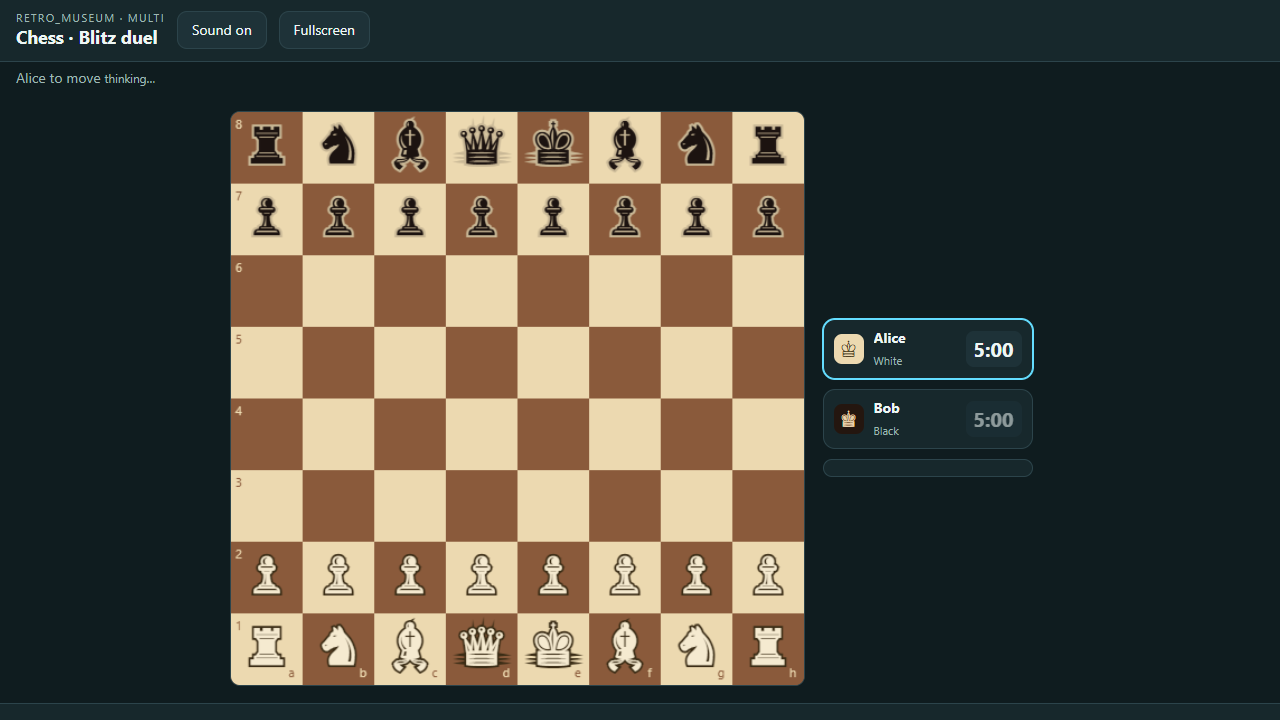
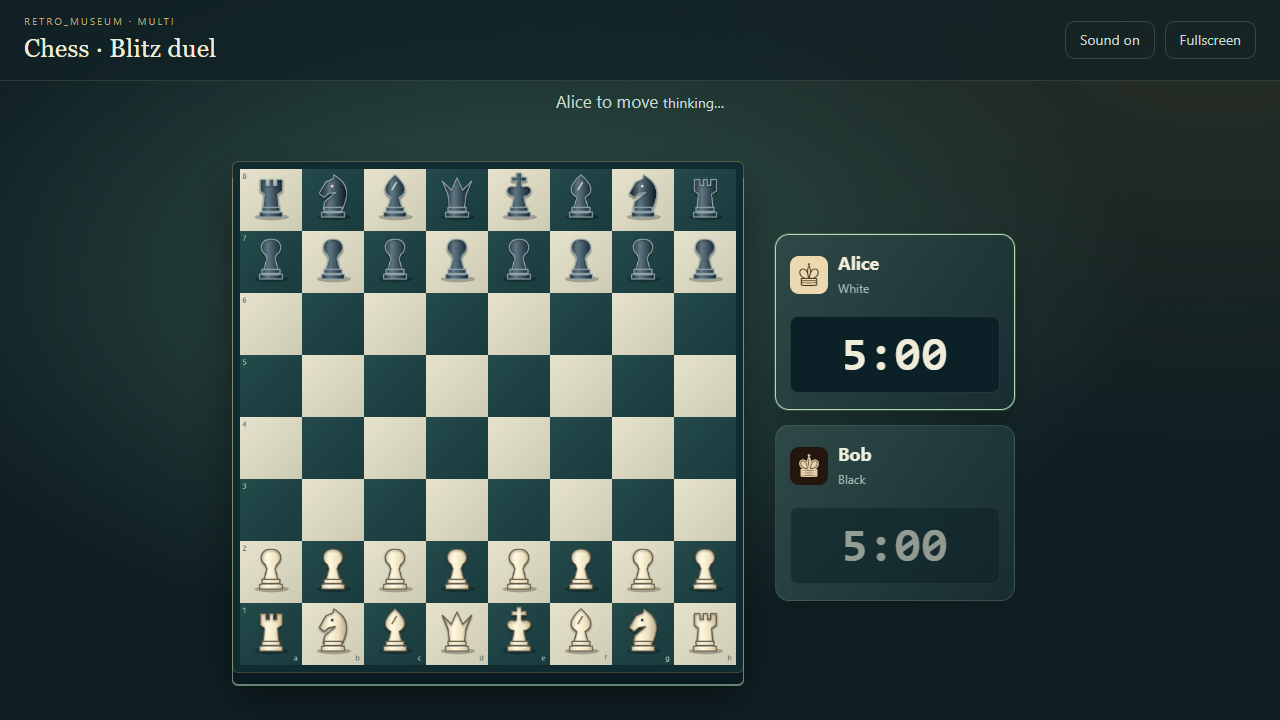
feat: emerald chess board with vector pieces and move animations

diff --git a/public/chess-ui.js b/public/chess-ui.js
@@ -1,6 +1,8 @@
+const VICTORY = "<svg class=\"victory-mark\" viewBox=\"0 0 80 80\" aria-hidden=\"true\"><path d=\"M24 14h32v19c0 14-8 20-16 20s-16-6-16-20z\" fill=\"currentColor\"/><path d=\"M24 20H13v10c0 10 8 14 16 14M56 20h11v10c0 10-8 14-16 14\" fill=\"none\" stroke=\"currentColor\" stroke-width=\"5\"/><path d=\"M36 51h8v12h12v6H24v-6h12z\" fill=\"currentColor\"/><path d=\"m40 22 3 6 7 1-5 5 1 7-6-3-6 3 1-7-5-5 7-1z\" fill=\"#825521\"/></svg><div class=\"celebration\" aria-hidden=\"true\"><i style=\"--x:0%;--delay:0s;--spin:-180deg;--color:#eacb7e\"></i><i style=\"--x:47%;--delay:0.12s;--spin:180deg;--color:#8dd9c0\"></i><i style=\"--x:94%;--delay:0.24s;--spin:-180deg;--color:#e68fab\"></i><i style=\"--x:41%;--delay:0.36s;--spin:180deg;--color:#c4bcff\"></i><i style=\"--x:88%;--delay:0.48s;--spin:-180deg;--color:#eacb7e\"></i><i style=\"--x:35%;--delay:0s;--spin:180deg;--color:#8dd9c0\"></i><i style=\"--x:82%;--delay:0.12s;--spin:-180deg;--color:#e68fab\"></i><i style=\"--x:29%;--delay:0.24s;--spin:180deg;--color:#c4bcff\"></i><i style=\"--x:76%;--delay:0.36s;--spin:-180deg;--color:#eacb7e\"></i><i style=\"--x:23%;--delay:0.48s;--spin:180deg;--color:#8dd9c0\"></i><i style=\"--x:70%;--delay:0s;--spin:-180deg;--color:#e68fab\"></i><i style=\"--x:17%;--delay:0.12s;--spin:180deg;--color:#c4bcff\"></i><i style=\"--x:64%;--delay:0.24s;--spin:-180deg;--color:#eacb7e\"></i><i style=\"--x:11%;--delay:0.36s;--spin:180deg;--color:#8dd9c0\"></i><i style=\"--x:58%;--delay:0.48s;--spin:-180deg;--color:#e68fab\"></i><i style=\"--x:5%;--delay:0s;--spin:180deg;--color:#c4bcff\"></i><i style=\"--x:52%;--delay:0.12s;--spin:-180deg;--color:#eacb7e\"></i><i style=\"--x:99%;--delay:0.24s;--spin:180deg;--color:#8dd9c0\"></i><i style=\"--x:46%;--delay:0.36s;--spin:-180deg;--color:#e68fab\"></i><i style=\"--x:93%;--delay:0.48s;--spin:180deg;--color:#c4bcff\"></i></div>";
+import { drawPiece } from './pieces.js';
 import { g } from './chess-i18n.js';
 
-const SIZE = 512, CELL = SIZE / 8;
+const SIZE = 768, CELL = SIZE / 8;
 const GLYPH = { k: '♚', q: '♛', r: '♜', b: '♝', n: '♞', p: '♟' };
 const FILES = 'abcdefgh';
 const clock = ms => { const n = Math.ceil(Math.max(0, ms) / 1000); return `${Math.floor(n / 60)}:${String(n % 60).padStart(2, '0')}`; };
@@ -10,6 +12,8 @@ const EMPTY = { board: '.'.repeat(64), turn: 'w', whiteMs: 0, blackMs: 0, legal:
 export function createChessView(app, role, { send, notice, preference = () => {} }) {
   let s, online = false, contentKey = null, dead = false, lastEvent = 0, rendered = '';
   let canvas, ctx, selected = null, pendingPromotion = null;
+  let previousBoard = null, animation = null, animationFrame = 0;
+  const reducedMotion = window.matchMedia('(prefers-reduced-motion: reduce)');
   const cache = new Map();
   const soundKey = 'museum-sound-muted-' + role;
   let muted = false;
@@ -57,9 +61,10 @@ export function createChessView(app, role, { send, notice, preference = () => {}
   };
 
   function write(selector, property, value) {
-    if (cache.get(selector) === value) return;
+    const cacheKey = selector + ":" + property;
+    if (cache.get(cacheKey) === value) return;
     const element = app.querySelector(selector);
-    if (element) { element[property] = value; cache.set(selector, value); }
+    if (element) { element[property] = value; cache.set(cacheKey, value); }
   }
 
   function mount() {
@@ -104,7 +109,9 @@ export function createChessView(app, role, { send, notice, preference = () => {}
       const column = display & 7, row = display >> 3;
       const x = column * CELL, y = row * CELL;
       const light = ((index >> 3) + (index & 7)) % 2 === 1;
-      ctx.fillStyle = light ? '#ecd9b0' : '#8a5a3b';
+      const tile=ctx.createLinearGradient(x,y,x+CELL,y+CELL);
+      tile.addColorStop(0,light?'#244a4a':'#e6e2cd');tile.addColorStop(1,light?'#193b3d':'#cecbb4');
+      ctx.fillStyle=tile;
       ctx.fillRect(x, y, CELL, CELL);
       const square = squareName(index);
       if (last.from === square || last.to === square) {
@@ -116,27 +123,16 @@ export function createChessView(app, role, { send, notice, preference = () => {}
         ctx.fillRect(x, y, CELL, CELL);
       }
       if (column === 0) {
-        ctx.fillStyle = light ? '#8a5a3b' : '#ecd9b0';
+        ctx.fillStyle = light ? '#a3c4b6' : '#426362';
         ctx.font = '11px system-ui';
         ctx.textAlign = 'left';
         ctx.fillText(String(8 - (index >> 3)), x + 4, y + 12);
         ctx.textAlign = 'center';
       }
       if (row === 7) {
-        ctx.fillStyle = light ? '#8a5a3b' : '#ecd9b0';
+        ctx.fillStyle = light ? '#a3c4b6' : '#426362';
         ctx.font = '11px system-ui';
         ctx.fillText(FILES[index & 7], x + CELL - 10, y + CELL - 10);
-      }
-      const piece = state.board[index];
-      if (piece && piece !== '.') {
-        const white = piece < 'a';
-        const glyph = GLYPH[piece.toLowerCase()];
-        ctx.font = `${Math.floor(CELL * .74)}px serif`;
-        ctx.lineWidth = CELL * .06;
-        ctx.strokeStyle = white ? '#3a2c15' : '#c9b896';
-        ctx.fillStyle = white ? '#f5ead0' : '#1c1310';
-        ctx.strokeText(glyph, x + CELL / 2, y + CELL / 2 + CELL * .04);
-        ctx.fillText(glyph, x + CELL / 2, y + CELL / 2 + CELL * .04);
       }
       if (selected === square) {
         ctx.strokeStyle = '#64ddff';
@@ -145,16 +141,37 @@ export function createChessView(app, role, { send, notice, preference = () => {}
       } else if (targets.has(square)) {
         ctx.fillStyle = 'rgba(100, 221, 255, .55)';
         ctx.beginPath();
-        ctx.arc(x + CELL / 2, y + CELL / 2, CELL * .13, 0, 7);
-        ctx.fill();
+        const capture=state.board[index]!=='.';
+        ctx.arc(x + CELL / 2, y + CELL / 2, CELL * (capture ? .43 : .13), 0, 7);
+        if(capture){ctx.strokeStyle='#89dbbd';ctx.lineWidth=4;ctx.stroke();}else ctx.fill();
       }
     }
-    rendered = [state.board, state.lastMove?.from, state.lastMove?.to, selected, flip, state.check].join('|');
+    const t = animation ? Math.min(1, (performance.now()-animation.start)/260) : 1;
+    const eased=1-Math.pow(1-t,3);
+    const coords=index=>{const n=flip?63-index:index;return [(n&7)*CELL,(n>>3)*CELL];};
+    for(let index=0;index<64;index++){
+      const piece=state.board[index];if(!piece||piece==='.'||animation?.to===index)continue;
+      const [x,y]=coords(index);drawPiece(ctx,piece,x+CELL*.08,y+CELL*.04,CELL*.84);
+    }
+    if(animation){
+      const [x1,y1]=coords(animation.from),[x2,y2]=coords(animation.to);
+      drawPiece(ctx,animation.piece,x1+(x2-x1)*eased+CELL*.08,y1+(y2-y1)*eased+CELL*.04-Math.sin(t*Math.PI)*CELL*.12,CELL*.84);
+      if(t>=1)animation=null;
+    }
   }
+  function boardKey(){const state=chess();return [state.board,state.lastMove?.from,state.lastMove?.to,selected,orientation(),state.check].join('|');}
   function paint() {
-    const state = chess();
-    const key = [state.board, state.lastMove?.from, state.lastMove?.to, selected, orientation(), state.check].join('|');
-    if (key !== rendered) drawBoard();
+    const state=chess(),key=boardKey();
+    if(state.board!==previousBoard){
+      if(previousBoard&&state.lastMove&&!reducedMotion.matches&&s.phase==='playing'){
+        const from=squareIndex(state.lastMove.from),to=squareIndex(state.lastMove.to);
+        if(previousBoard[from]!=='.'&&state.board[to]!=='.')animation={from,to,piece:state.board[to],start:performance.now()};
+      }
+      previousBoard=state.board;
+    }
+    if(key===rendered&&!animation)return;
+    rendered=key;drawBoard();
+    if(animation&&!animationFrame)animationFrame=requestAnimationFrame(function frame(){animationFrame=0;if(dead)return;drawBoard();if(animation)animationFrame=requestAnimationFrame(frame);});
   }
 
   function playerHtml(color) {
@@ -204,7 +221,7 @@ export function createChessView(app, role, { send, notice, preference = () => {}
       const connected = s.party.players.filter(p => p.connected).length;
       const rematch = role === 'controller'
         ? `<div class="chess-replay"><button class="button primary" data-action="playAgain" ${connected < 2 ? 'disabled' : ''}>${esc(tr('playAgain'))}</button>${connected < 2 ? `<small>${esc(tr('needPlayers'))}</small>` : ''}</div>` : '';
-      return `<div class="chess-overlay"><p class="eyebrow">${esc(tr('result'))}</p><h2>${resultText() || esc(tr(s.party.reason || 'adminEnd'))}</h2>${rematch}</div>`;
+      return `<div class="chess-overlay result-scene">${state.winner ? VICTORY : ''}<p class="eyebrow">${esc(tr('result'))}</p><h2>${resultText() || esc(tr(s.party.reason || 'adminEnd'))}</h2>${rematch}</div>`;
     }
     if (!online) return `<div class="chess-overlay"><h2>${esc(tr('disconnected'))}</h2></div>`;
     return '';
@@ -275,7 +292,7 @@ export function createChessView(app, role, { send, notice, preference = () => {}
     write('[data-fullscreen]', 'textContent', tr('fullscreen'));
     write('[data-sound]', 'textContent', tr(muted ? 'soundOff' : 'soundOn'));
     write('[data-sound]', 'ariaPressed', String(!muted));
-    if (s.party.id !== previousMatch) { lastEvent = 0; selected = null; pendingPromotion = null; }
+    if (s.party.id !== previousMatch) { lastEvent = 0; selected = null; pendingPromotion = null; previousBoard = null; animation = null; }
     const view = chess();
     const key = [role, s.phase, view.winner, view.reason, view.players.map(p => p.id + p.color).join(','), s.party.you, online].join(':');
     if (key !== contentKey) { contentKey = key; cache.clear(); rendered = ''; selected = null; }
@@ -300,5 +317,5 @@ export function createChessView(app, role, { send, notice, preference = () => {}
     paint();
   }
 
-  return { update, setPreferences, dispose() { dead = true; } };
+  return { update, setPreferences, dispose() { dead = true; cancelAnimationFrame(animationFrame); audio.context?.close().catch(() => {}); } };
 }

diff --git a/public/chess.css b/public/chess.css
@@ -137,3 +137,42 @@ button { font: inherit; color: inherit; cursor: pointer; }
 /* Compact phone header; all controls remain reachable on narrow devices. */
 .chess-header { flex-wrap: wrap; }
 @media(max-width:600px) { .chess-header { padding:6px 10px; gap:6px; } .chess-header h1 { font-size:16px; } .chess-header .brand { display:none; } .chess-header .button { padding:7px; font-size:12px; } }
+
+/* Emerald club: a lit board, quiet surroundings and prominent clocks. */
+:root{--ink:#f0ecda;--muted:#a2b9b0;--bg:#101f23;--panel:#182b2e;--panel-2:#223b3e;--line:#36514f;--accent:#9ce2c6;--gold:#edcc86}
+body{background:radial-gradient(ellipse at 40% 38%,#31534a 0,transparent 58%),radial-gradient(ellipse at 95% 5%,#554a2b55,transparent 42%),#101f23}
+.chess-header{background:#102125bb;padding:14px 24px;border-bottom:1px solid #c8c8a528;gap:10px}
+.chess-header>div:first-child{flex:1;min-width:0}.chess-header h1{font-family:Georgia,serif;font-weight:normal;font-size:25px;letter-spacing:.01em}
+.chess-header .brand{color:#bca879;font-size:10px;letter-spacing:.2em;margin-bottom:3px}
+.chess-header .button{background:transparent;border-color:#8aab9d45;color:#c9d7ce}
+.chess-status{text-align:center;font-size:17px;padding:9px 16px;color:#c5d9ce;min-height:40px}
+.chess-status .announce{font-size:18px}.chess-status .alert{background:#b94c4733;border:1px solid #da7770;border-radius:20px;padding:3px 12px;margin-left:8px}
+.chess-stage{gap:32px;padding:20px;align-items:center}
+.chess-canvas{border:7px solid #112c30;border-radius:5px;outline:1px solid #b49d6255;box-shadow:0 12px 0 #091b20,0 13px 0 1px #668277,0 26px 45px #0007;max-width:min(64vw,680px,calc(100vh - 210px));max-height:calc(100vh - 210px)}
+.chess-side{width:240px;flex-shrink:0;gap:15px}.chess-player{padding:16px 14px;border-radius:14px;background:linear-gradient(125deg,#2e4948,#182d32);border-color:#809e813d;flex-wrap:wrap;box-shadow:0 8px 20px #0002;transition:border-color .25s,box-shadow .25s}
+.chess-player.is-turn{border-color:#b4d8ab;box-shadow:0 0 0 1px #b4d8ab35,0 12px 24px #0003}
+.chess-player .who strong{font-size:18px}.chess-player .who small{font-size:12px}.chess-player .badge{width:38px;height:38px;font-size:28px;border-radius:9px}
+.chess-player .clock{width:100%;font-size:46px;text-align:center;line-height:1.1;letter-spacing:.03em;background:#0b2127;border:1px solid #879c7033;padding:12px;margin-top:8px;font-family:ui-monospace,Consolas,monospace}
+.chess-history{border:0;background:#0a1c2144;line-height:1.9;max-height:120px;padding:12px 16px;color:#abc5b8}.chess-history:empty{display:none}
+.chess-overlay{background:radial-gradient(ellipse at center,#244942f5,#0b1d24f5);border:1px solid #a8be8830;box-shadow:inset 0 0 90px #030e1466;border-radius:18px;animation:panel-arrive .3s ease-out;overflow-y:auto}
+.chess-overlay h2{font-family:Georgia,serif;font-size:clamp(25px,4vw,48px);font-weight:normal;max-width:760px}.chess-overlay .eyebrow{color:#d6bb80;letter-spacing:.24em}
+.chess-overlay .rules{line-height:1.7;color:#bed0c6}.chess-countdown{font-family:Georgia,serif;color:#ebd496}
+.chess-promotion .button{box-shadow:0 5px 0 #385847}.button.primary{background:linear-gradient(120deg,#d8edbc,#90d4b8);color:#153731;box-shadow:0 3px 0 #557966;border:0;font-weight:700}
+.chess-footer{background:transparent;border:0;padding:4px;min-height:6px}
+.controller .chess-header h1{font-size:17px}.controller .chess-stage{padding:10px;gap:18px}.controller .chess-canvas{border-width:4px;max-width:min(100%,calc(100vh - 250px));max-height:calc(100vh - 250px)}
+.controller .chess-side{gap:8px}.controller .chess-player{min-width:0;padding:9px;gap:6px}.controller .chess-player .who strong{font-size:13px}.controller .chess-player .who small{font-size:10px}.controller .chess-player .clock{font-size:27px;margin-top:2px;padding:6px}.controller .chess-status{padding:8px;min-height:35px}
+@media(orientation:landscape) and (max-height:520px){.controller .chess-stage{align-items:center;gap:14px;padding:8px}.controller .chess-canvas{flex:0 0 auto;width:calc(100vh - 95px);height:calc(100vh - 95px);min-width:0;max-width:65vw;max-height:none}.controller .chess-side{width:160px}.controller .chess-player{padding:6px}.controller .chess-player .clock{font-size:24px}.controller .chess-history{display:none}}
+
+/* Finite, transform-only celebrations: no ongoing render loop or flashing. */
+.victory-mark{width:88px;height:88px;color:var(--gold);filter:drop-shadow(0 8px 14px #0005);flex-shrink:0;animation:prize-arrive .6s ease-out both}
+.celebration{position:absolute;inset:0;overflow:hidden;pointer-events:none;border-radius:inherit}
+.celebration i{position:absolute;left:var(--x);top:-15px;width:8px;height:15px;border-radius:2px;background:var(--color);opacity:0;animation:confetti-fall 2.5s var(--delay) ease-out both}
+.result-scene> :not(.celebration){position:relative;z-index:1}
+@keyframes confetti-fall{0%{opacity:0;transform:translateY(-20px) rotate(0)}15%{opacity:1}100%{opacity:0;transform:translateY(650px) rotate(var(--spin))}}
+@keyframes prize-arrive{from{opacity:0;transform:translateY(15px) scale(.8)}to{opacity:1;transform:none}}
+@keyframes panel-arrive{from{opacity:0;transform:translateY(8px)}to{opacity:1;transform:none}}
+button{transition:background .15s,box-shadow .15s,transform .15s}
+button:active:not(:disabled){transform:translateY(1px) scale(.98)}
+button:focus-visible{outline:3px solid var(--accent);outline-offset:3px}
+@media(prefers-reduced-motion:reduce){*,*::before,*::after{animation:none!important;transition:none!important;scroll-behavior:auto!important}.celebration{display:none}}
+@media(max-height:500px){.victory-mark{width:45px;height:45px}.result-scene{gap:6px!important;padding:10px!important}}

diff --git a/public/pieces.js b/public/pieces.js
@@ -1,0 +1,26 @@
+// Original vector silhouettes; no font or network asset is needed on a TV.
+const SHAPES = {
+ p: 'M25 26 C16 19 20 7 32 7 C44 7 48 19 39 26 L37 31 L41 46 L23 46 L27 31 Z',
+ r: 'M19 10 L26 10 L26 17 L30 17 L30 10 L35 10 L35 17 L39 17 L39 10 L46 10 L46 24 L40 28 L42 46 L22 46 L24 28 L19 24 Z',
+ n: 'M20 46 L22 37 L35 26 L27 27 L21 32 L15 27 L23 13 L32 9 L33 4 L41 10 C53 21 49 34 44 46 Z',
+ b: 'M23 46 L27 32 C13 24 22 13 32 4 C42 13 51 24 37 32 L41 46 Z',
+ q: 'M23 46 L21 29 L14 12 L25 23 L32 8 L39 23 L50 12 L43 29 L41 46 Z',
+ k: 'M23 46 L26 31 C12 28 17 15 27 19 L29 17 L29 12 L23 12 L23 7 L29 7 L29 2 L35 2 L35 7 L41 7 L41 12 L35 12 L35 17 L37 19 C47 15 52 28 38 31 L41 46 Z',
+};
+const paths = new Map();
+export function drawPiece(ctx, piece, x, y, size) {
+ const kind=piece.toLowerCase(),white=piece!==kind;
+ if(!paths.has(kind))paths.set(kind,new Path2D(SHAPES[kind]));
+ ctx.save();ctx.translate(x,y);ctx.scale(size/64,size/64);
+ ctx.fillStyle='rgba(0,0,0,.25)';ctx.beginPath();ctx.ellipse(33,56,21,4,0,0,Math.PI*2);ctx.fill();
+ const fill=ctx.createLinearGradient(15,0,49,0);
+ fill.addColorStop(0,white?'#cbbf9e':'#101e26');fill.addColorStop(.38,white?'#fff8df':'#607783');fill.addColorStop(.68,white?'#eee2c1':'#334853');fill.addColorStop(1,white?'#b9ac89':'#0e1a21');
+ ctx.fillStyle=fill;ctx.strokeStyle=white?'#645c48':'#91a3a9';ctx.lineWidth=1.4;ctx.lineJoin='round';
+ ctx.shadowColor='rgba(0,0,0,.4)';ctx.shadowBlur=3;ctx.shadowOffsetY=2;
+ ctx.fill(paths.get(kind));ctx.stroke(paths.get(kind));ctx.shadowBlur=0;ctx.shadowOffsetY=0;
+ for(const [bx,by,bw,bh] of [[21,44,22,5],[18,50,28,6]]){ctx.beginPath();ctx.rect(bx,by,bw,bh);ctx.fill();ctx.stroke();}
+ ctx.strokeStyle=white?'#ffffffbb':'#a4bec9aa';ctx.lineWidth=1;ctx.beginPath();ctx.moveTo(22,51);ctx.lineTo(42,51);ctx.stroke();
+ if(kind==='n'){ctx.fillStyle=white?'#263640':'#e8dcc0';ctx.beginPath();ctx.arc(31,18,1.6,0,7);ctx.fill();}
+ if(kind==='b'){ctx.strokeStyle=white?'#827861':'#c4d0ce';ctx.lineWidth=2;ctx.beginPath();ctx.moveTo(34,13);ctx.lineTo(28,23);ctx.stroke();}
+ ctx.restore();
+}

diff --git a/README.md b/README.md
@@ -42,3 +42,9 @@ Version 1.0.1 fixes host completion for matches without a winner, adds persisten
 See the [game acceptance checklist](https://github.com/manaty/retro-museum-sdk/blob/main/GAME-QUALITY.md).
 
 This is casual chess: threefold repetition and fifty moves trigger an automatic draw. Draw claims, draw offers and resignation are not implemented. Basic insufficient-material cases are detected; not every possible blocked dead position or impossible-mate timeout configuration is recognized. It is not a complete FIDE tournament implementation. Rule reference: [FIDE Laws, articles 6.9 and 9](https://handbook.fide.com/chapter/E012023).
+
+## Visual edition 1.1.0
+
+Emerald and ivory board, original vector pieces with shaded relief, animated moves, prominent clocks and a trophy/confetti finish. Animations respect reduced-motion preferences and finish automatically. Unchanged server snapshots do not repaint the board.
+
+Browser checks cover 320px/390px portrait phones, landscape phones and 960px/1280px/1920px shared displays. Run `npx playwright install chromium`, then `npm run test:browser`; CI runs these checks too. Physical legacy TVs remain untested.
